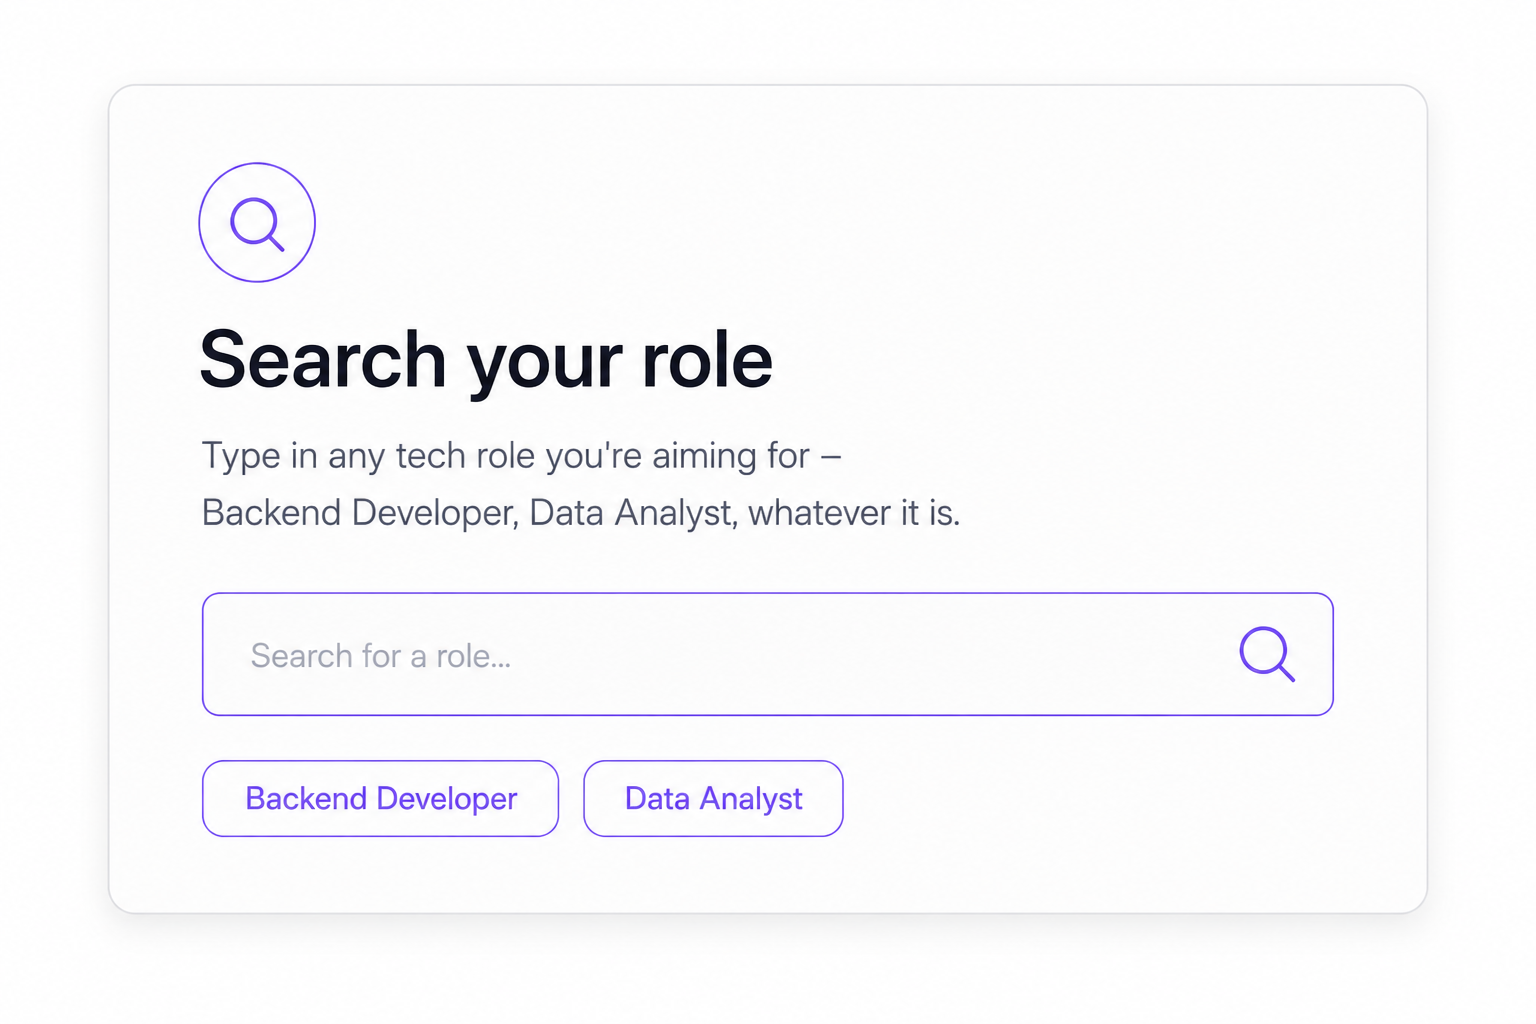
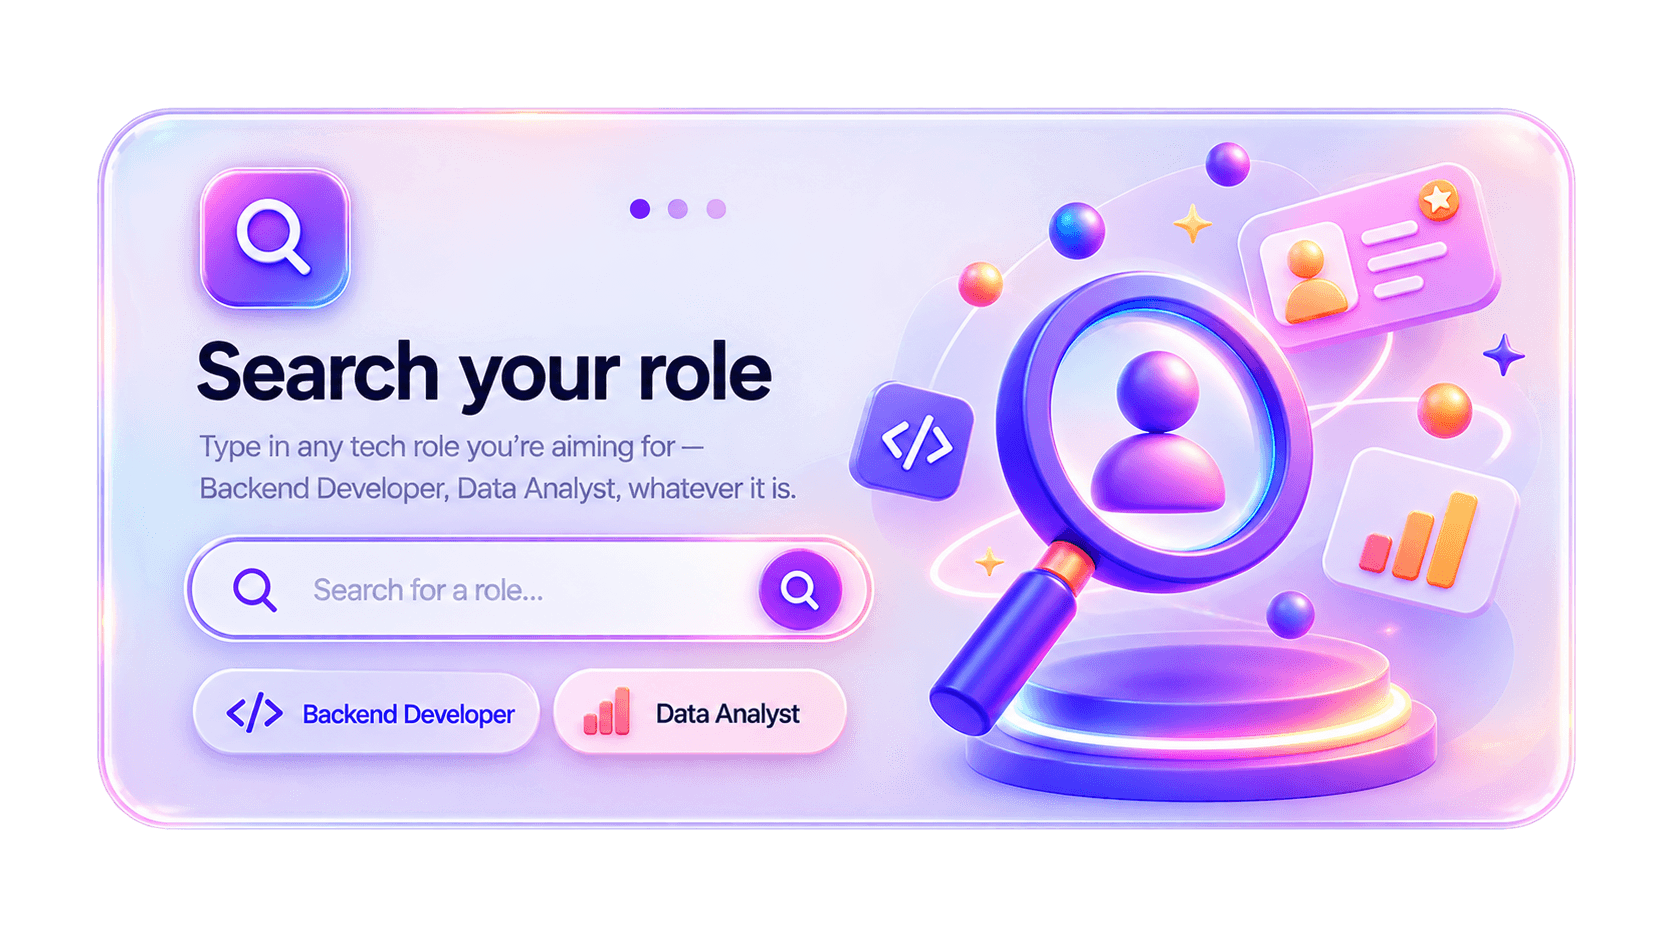
chore: update project images

diff --git a/src/components/section3/Section3.jsx b/src/components/section3/Section3.jsx
@@ -235,21 +235,21 @@ const Section3 = () => {
       <div className="image-card-section h-full w-[200%] absolute top-0 z-6 translate-x-full flex items-center justify-around px-8">
         <div className="card card1 w-[25%] flex items-center justify-center">
           <img
-            className="w-full h-auto rounded-xl shadow-2xl"
+            className="w-full h-auto object-contain"
             src="/images/section3-images/card1.png"
             alt=""
           />
         </div>
         <div className="card card2 w-[25%] flex items-center justify-center">
           <img
-            className="w-full h-auto rounded-xl shadow-2xl"
+            className="w-full h-auto object-contain"
             src="/images/section3-images/card2.png"
             alt=""
           />
         </div>
         <div className="card card3 w-[25%] flex items-center justify-center">
           <img
-            className="w-full h-auto rounded-xl shadow-2xl"
+            className="w-full h-auto object-contain"
             src="/images/section3-images/card3.png"
             alt=""
           />
